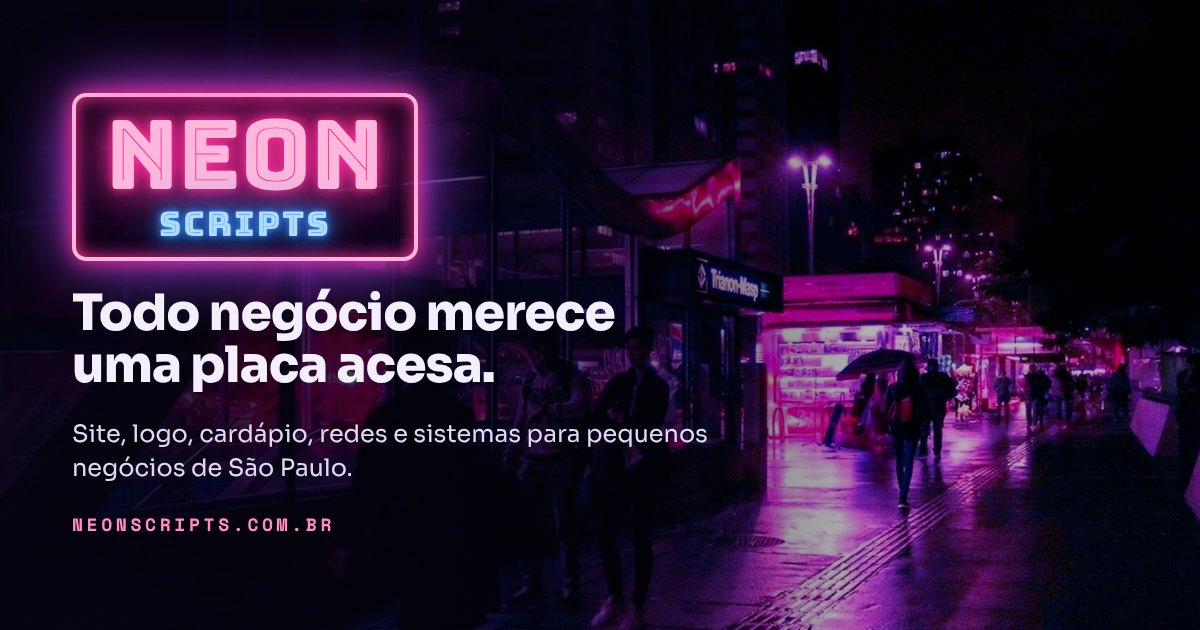
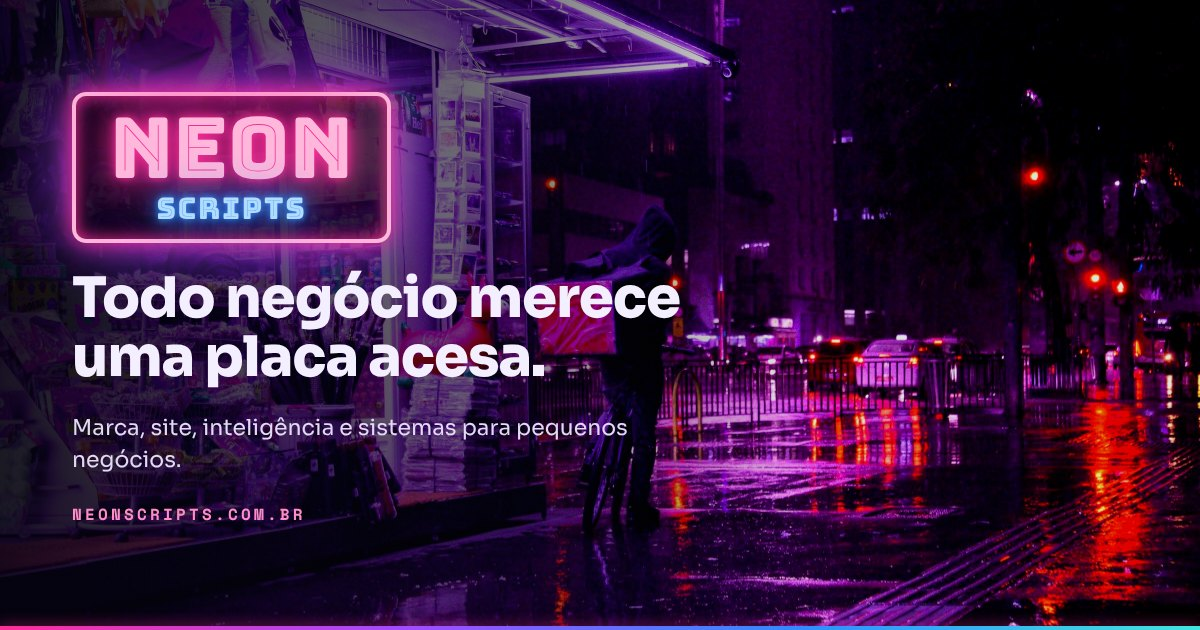
Site sem metrô: foto da banca, tubo de neon e menu sem nome duplicado (#11)
Claude-Session: https://claude.ai/code/session_01GjF9b3juNXBuD2MeRqHnhB

diff --git a/index.html b/index.html
@@ -23,7 +23,7 @@
 <meta property="og:image" content="https://neonscripts.com.br/assets/og-neon-scripts.jpg">
 <meta property="og:image:width" content="1200">
 <meta property="og:image:height" content="630">
-<meta property="og:image:alt" content="Letreiro neon Neon Scripts sobre a entrada do metrô à noite, com a frase Todo negócio merece uma placa acesa">
+<meta property="og:image:alt" content="Letreiro neon Neon Scripts sobre uma banca de rua na chuva à noite, com a frase Todo negócio merece uma placa acesa">
 <meta name="twitter:card" content="summary_large_image">
 <!-- Ficha da empresa para o Google (dados estruturados) -->
 <script type="application/ld+json">
@@ -80,7 +80,7 @@
 <link rel="preconnect" href="https://fonts.googleapis.com">
 <link rel="preconnect" href="https://fonts.gstatic.com" crossorigin>
 <link href="https://fonts.googleapis.com/css2?family=Bungee+Inline&family=Sora:wght@400;600;800&family=Space+Mono:wght@400;700&display=swap" rel="stylesheet">
-<link rel="preload" as="image" href="assets/hero-metro.jpg">
+<link rel="preload" as="image" href="assets/hero-banca.jpg">
 <style>
 :root{
   --ease:cubic-bezier(.22,1,.36,1);
@@ -95,7 +95,7 @@ a{color:inherit}
 
 /* Hero */
 .hero{position:relative;height:min(100vh,820px);min-height:640px;overflow:hidden;background:var(--night)}
-.ph{position:absolute;inset:0;background:url("assets/hero-metro.jpg") center 55%/cover no-repeat}
+.ph{position:absolute;inset:0;background:url("assets/hero-banca.jpg") center 62%/cover no-repeat}
 .par{position:absolute;transition:transform 420ms var(--ease);will-change:transform}
 .par-photo{inset:-16px}
 .settle{position:absolute;inset:0;animation:settle 1600ms var(--ease) both}
@@ -120,7 +120,6 @@ a{color:inherit}
 .sign .word span.pisca,.sign .word.pisca{animation:flick 520ms linear}
 @keyframes flick{0%,100%{opacity:1}12%{opacity:.15}20%{opacity:.9}32%{opacity:.25}46%{opacity:1}60%{opacity:.4}70%{opacity:1}}
 nav{position:absolute;left:0;right:0;top:0;z-index:2;padding:30px clamp(20px,5vw,72px) 0;display:flex;flex-wrap:wrap;align-items:center;justify-content:space-between;gap:16px}
-.brand{font-family:'Space Mono',monospace;font-size:15px;letter-spacing:.24em;text-decoration:none}
 .links{display:flex;flex-wrap:wrap;align-items:center;gap:28px;font-size:15px;font-weight:600}
 .nl{position:relative;text-decoration:none}
 .nl::after{content:"";position:absolute;left:0;right:0;bottom:-6px;height:2px;background:var(--pink);transform:scaleX(0);transform-origin:left;transition:transform 180ms var(--ease)}
@@ -139,7 +138,7 @@ h1{margin:0;font-size:clamp(38px,5.2vw,70px);font-weight:800;line-height:1.02;le
 .btn-g:hover{background-color:rgba(244,239,255,.12)}
 .btn-s{padding:12px 20px}
 a:focus-visible{outline:2px solid #fff;outline-offset:3px}
-.tactile{position:absolute;left:0;right:0;bottom:0;height:30px;background-color:#CFAE28;background-image:radial-gradient(circle at center,var(--yellow) 0 4px,transparent 5px);background-size:20px 15px;border-top:3px solid #0A0816;box-shadow:0 -8px 30px rgba(242,215,90,.18)}
+.tubo{position:absolute;left:0;right:0;bottom:0;height:30px;background-color:#CFAE28;background-image:radial-gradient(circle at center,var(--yellow) 0 4px,transparent 5px);background-size:20px 15px;border-top:3px solid #0A0816;box-shadow:0 -8px 30px rgba(242,215,90,.18)}
 
 /* Plataforma */
 .platform{position:relative;padding:0 0 110px}
@@ -217,7 +216,6 @@ h2{margin:0;font-size:clamp(30px,3.6vw,46px);font-weight:800;line-height:1.08;le
 .wa{display:none}
 @media (max-width:820px){
   nav{padding:18px 20px 0;flex-wrap:nowrap}
-  .brand{font-size:11px;letter-spacing:.12em;white-space:nowrap}
   .btn-s{padding:9px 14px;font-size:13px;white-space:nowrap}
   .hero{height:100svh;min-height:600px;max-height:900px}
   .copy{left:20px;right:20px;bottom:56px;gap:14px}
@@ -225,7 +223,7 @@ h2{margin:0;font-size:clamp(30px,3.6vw,46px);font-weight:800;line-height:1.08;le
   .lead{font-size:16px}
   .ctas{flex-direction:column;gap:10px}
   .ctas .btn{text-align:center;padding:17px 20px;font-size:17px}
-  .tactile{height:24px}
+  .tubo{height:24px}
   .wrap{padding:56px 20px 0;gap:26px}
   h2{font-size:28px}
   .plat-head{display:flex;flex-direction:column;gap:18px}
@@ -341,7 +339,7 @@ h2{margin:0;font-size:clamp(30px,3.6vw,46px);font-weight:800;line-height:1.08;le
 .quem-txt h2{max-width:620px}
 .quem-txt p{margin:0;font-size:17px;line-height:1.6;color:var(--soft);max-width:600px}
 .quem-txt p strong{color:var(--ink)}
-/* Linha do tempo como linha de metrô: as estações acendem uma de cada vez */
+/* Trajetória: os pontos acendem um de cada vez */
 .trajeto{position:relative;display:grid;grid-template-columns:repeat(5,minmax(0,1fr));gap:0;margin:10px 0 4px;padding:0;list-style:none}
 .trajeto::before{content:"";position:absolute;left:10%;right:10%;top:17px;height:6px;border-radius:3px;background:linear-gradient(90deg,var(--pink),var(--purple),var(--blue),var(--cyan));opacity:.25}
 .trajeto::after{content:"";position:absolute;left:10%;right:10%;top:17px;height:6px;border-radius:3px;background:linear-gradient(90deg,var(--pink),var(--purple),var(--blue),var(--cyan));box-shadow:0 0 14px rgba(162,75,255,.7);transform:scaleX(0);transform-origin:left;transition:transform 900ms var(--ease) 200ms}
@@ -381,7 +379,6 @@ h2{margin:0;font-size:clamp(30px,3.6vw,46px);font-weight:800;line-height:1.08;le
   .quem{padding:56px 20px 64px}
   .quem-txt p{font-size:16px}
   .valores{grid-template-columns:1fr}
-  /* No celular o trajeto vira a mesma linha vertical da "Linha Neon" */
   .trajeto{grid-template-columns:1fr;gap:14px;padding-left:4px}
   .trajeto::before,.trajeto::after{left:21px;right:auto;top:20px;bottom:20px;width:6px;height:auto}
   .trajeto::after{transform:scaleY(0);transform-origin:top}
@@ -424,6 +421,27 @@ h2{margin:0;font-size:clamp(30px,3.6vw,46px);font-weight:800;line-height:1.08;le
   .how-step strong{margin-top:0;align-self:center}
   .contact{padding:56px 20px 140px}
 }
+
+/* ===== Sem metrô: tubo de neon, números acesos e trajetória fina ===== */
+.links{margin-left:auto}
+.tubo{height:3px;background:linear-gradient(90deg,var(--pink),var(--purple),var(--blue),var(--cyan));border:0;box-shadow:0 0 14px rgba(255,46,154,.75),0 0 40px rgba(46,140,255,.45)}
+.line,.card .line,.how-step .line{width:auto;height:auto;border:0;border-radius:0;box-shadow:none;background:none;color:var(--c);justify-content:flex-start;font-size:15px;letter-spacing:.14em;text-shadow:0 0 8px var(--c),0 0 22px var(--c)}
+.how-steps::before{display:none}
+.how-step{padding-top:18px;border-top:2px solid var(--c);box-shadow:0 -8px 18px -12px var(--c)}
+.trajeto::before,.trajeto::after{top:19px;height:2px}
+.est i{width:14px;height:14px;margin:13px 0;border:0;background:rgba(244,239,255,.22);box-shadow:none}
+.trajeto.in .est i{background:var(--c);box-shadow:0 0 10px var(--c),0 0 24px var(--c)}
+@media (max-width:820px){
+  .ph{background-position:22% center}
+  .tubo{height:3px}
+  .grid::before,.how-steps::before{display:none}
+  .card{grid-template-columns:1fr;padding:4px 0 4px 18px;margin-bottom:24px;border-left:2px solid var(--c);box-shadow:none}
+  .card .line{grid-row:auto}
+  .card.in:hover{box-shadow:none}
+  .how-step{grid-template-columns:1fr;padding:4px 0 4px 18px;border-top:0;border-left:2px solid var(--c);box-shadow:none}
+  .how-step .line{grid-row:auto}
+  .trajeto::before,.trajeto::after{left:10px;width:2px;top:20px;height:auto}
+}
 </style>
 </head>
 <body>
@@ -441,7 +459,6 @@ h2{margin:0;font-size:clamp(30px,3.6vw,46px);font-weight:800;line-height:1.08;le
     <div class="plate"><span class="word"><span>N</span><span>E</span><span>O</span><span>N</span></span><span class="word sub"><span>S</span><span>C</span><span>R</span><span>I</span><span>P</span><span>T</span><span>S</span></span></div>
   </div>
   <nav>
-    <a class="brand rv" href="#hero" style="animation-delay:60ms">NEON SCRIPTS</a>
     <div class="links rv" style="animation-delay:120ms">
       <a class="nl" href="#servicos">Serviços</a>
       <a class="nl" href="#projetos">Projetos</a>
@@ -459,7 +476,7 @@ h2{margin:0;font-size:clamp(30px,3.6vw,46px);font-weight:800;line-height:1.08;le
       <a class="btn btn-g" href="#servicos">Ver o que a gente faz</a>
     </div>
   </div>
-  <div class="tactile" aria-hidden="true"></div>
+  <div class="tubo" aria-hidden="true"></div>
 </header>
 
 <main>
@@ -478,23 +495,23 @@ h2{margin:0;font-size:clamp(30px,3.6vw,46px);font-weight:800;line-height:1.08;le
       </a>
     </div>
     <div class="grid">
-      <a class="card reveal" href="#contato" style="transition-delay:0ms">
-        <span class="line" style="background:var(--pink);color:#0B0420">1</span>
+      <a class="card reveal" href="#contato" style="transition-delay:0ms;--c:var(--pink)">
+        <span class="line">01</span>
         <strong>Marca</strong>
         <p>Logo, cores e uma cara só sua, pra quem passa na frente lembrar de você.</p>
       </a>
-      <a class="card reveal" href="#contato" style="transition-delay:70ms">
-        <span class="line" style="background:var(--purple);color:#fff">2</span>
+      <a class="card reveal" href="#contato" style="transition-delay:70ms;--c:var(--purple)">
+        <span class="line">02</span>
         <strong>Site</strong>
         <p>Aparece no Google e leva o cliente direto pro seu WhatsApp, com cardápio ou catálogo se precisar.</p>
       </a>
-      <a class="card reveal" href="#contato" style="transition-delay:140ms">
-        <span class="line" style="background:var(--blue);color:#fff">3</span>
+      <a class="card reveal" href="#contato" style="transition-delay:140ms;--c:var(--blue)">
+        <span class="line">03</span>
         <strong>Inteligência</strong>
         <p>Os números do seu negócio viram decisão: quanto entrou no dia, o que mais vende e onde dá pra ganhar mais.</p>
       </a>
-      <a class="card reveal" href="#contato" style="transition-delay:210ms">
-        <span class="line" style="background:var(--cyan);color:#05121A">4</span>
+      <a class="card reveal" href="#contato" style="transition-delay:210ms;--c:var(--cyan)">
+        <span class="line">04</span>
         <strong>Sistemas</strong>
         <p>Comanda, estoque e caixa organizados do jeitinho que a sua rotina pede. Foi assim no Naruá.</p>
       </a>
@@ -568,23 +585,23 @@ h2{margin:0;font-size:clamp(30px,3.6vw,46px);font-weight:800;line-height:1.08;le
     <h2 id="como-titulo">Do primeiro oi ao seu negócio no ar.</h2>
   </div>
   <ol class="how-steps">
-    <li class="how-step reveal" style="transition-delay:0ms">
-      <span class="line" style="background:var(--pink);color:#0B0420">1</span>
+    <li class="how-step reveal" style="transition-delay:0ms;--c:var(--pink)">
+      <span class="line">01</span>
       <strong>Conversa</strong>
       <p>Você chama a gente e em até 24 horas a gente marca um papo. Se der, eu vou até o seu negócio, que é onde dá pra entender de verdade a sua rotina.</p>
     </li>
-    <li class="how-step reveal" style="transition-delay:70ms">
-      <span class="line" style="background:var(--purple);color:#fff">2</span>
+    <li class="how-step reveal" style="transition-delay:70ms;--c:var(--purple)">
+      <span class="line">02</span>
       <strong>Proposta</strong>
       <p>Você recebe o que a gente vai fazer, o prazo e o valor, tudo combinado antes. E se o valor apertar, a gente conversa.</p>
     </li>
-    <li class="how-step reveal" style="transition-delay:140ms">
-      <span class="line" style="background:var(--blue);color:#fff">3</span>
+    <li class="how-step reveal" style="transition-delay:140ms;--c:var(--blue)">
+      <span class="line">03</span>
       <strong>Criação</strong>
       <p>A gente mostra cada passo, e nada vai pro ar sem o seu ok.</p>
     </li>
-    <li class="how-step reveal" style="transition-delay:210ms">
-      <span class="line" style="background:var(--cyan);color:#05121A">4</span>
+    <li class="how-step reveal" style="transition-delay:210ms;--c:var(--cyan)">
+      <span class="line">04</span>
       <strong>No ar</strong>
       <p>Muitas vezes o site fica pronto na mesma semana. E depois a gente continua por perto, é só chamar.</p>
     </li>

diff --git a/CLAUDE.md b/CLAUDE.md
@@ -17,8 +17,9 @@ Site institucional da Neon Scripts (marca, site, inteligência e sistemas para p
 
 ## Marca
 - Nome: **Neon Scripts** (com espaço). Instagram @neon.scripts. Nunca só "Neon": conflita com o banco Neon e com o Neon Postgres.
+- Não repetir "Neon Scripts" em texto no menu: o letreiro já é a marca.
 - Letreiro: NEON em cima e SCRIPTS embaixo dentro da mesma placa, sempre em cores opostas (rosa/azul) que invertem juntas, com piscadas de vez em quando.
-- **Sem metrô.** Nada de estação, linha, plataforma, baldeação, embarque, piso tátil. O Brenno vetou em 2026-10-27. O código ainda tem restos (foto `assets/hero-metro.jpg`, faixa `.tactile`, classe `.platform`, bolinhas `.line`): trocar quando houver foto própria, não reforçar.
+- **Sem metrô.** Nada de estação, linha, plataforma, baldeação, embarque, piso tátil. O Brenno vetou em 2026-10-27. Foto do hero: `assets/hero-banca.jpg` (banca na chuva, escolhida em 2026-10-27; provavelmente da internet, confirmar licença ou trocar por foto própria). A faixa sob o hero é um tubo de neon (`.tubo`) e os números dos cards são "01-04" acesos.
 - Serviços sempre nesta lista: Marca, Site, Inteligência, Sistemas.
 
 ## Dados fixos

diff --git a/README.md b/README.md
@@ -2,14 +2,13 @@
 
 Site estático da Neon, softwarehouse para pequenos negócios de São Paulo.
 
-- `index.html`: página única (hero "entrada do metrô" + seção de serviços "Plataforma 1"), com CSS e JS embutidos, sem build.
-- `assets/hero-metro.jpg`: foto do hero, foto original de 1950px.
+- `index.html`: página única (hero com o letreiro + serviços, projetos, como funciona, quem somos e contato), com CSS e JS embutidos, sem build.
+- `assets/hero-banca.jpg`: foto do hero (banca de rua na chuva).
 
 Para ver localmente, abra `index.html` no navegador.
 
 ## Pendências antes de divulgar
-- Trocar a foto do hero por uma foto própria em alta resolução (a atual é de referência e mostra a placa da estação Trianon-Masp do Metrô).
-- Criar as seções que os links já apontam: Projetos, Como funciona e Contato.
+- Confirmar a licença da foto do hero ou trocar por uma foto própria.
 
 ## Movimento
 Easing único `cubic-bezier(.22,1,.36,1)`, controles em 180ms, entrada em 720ms com stagger de 70ms, letreiro "liga" uma vez. Tudo respeita `prefers-reduced-motion`.
